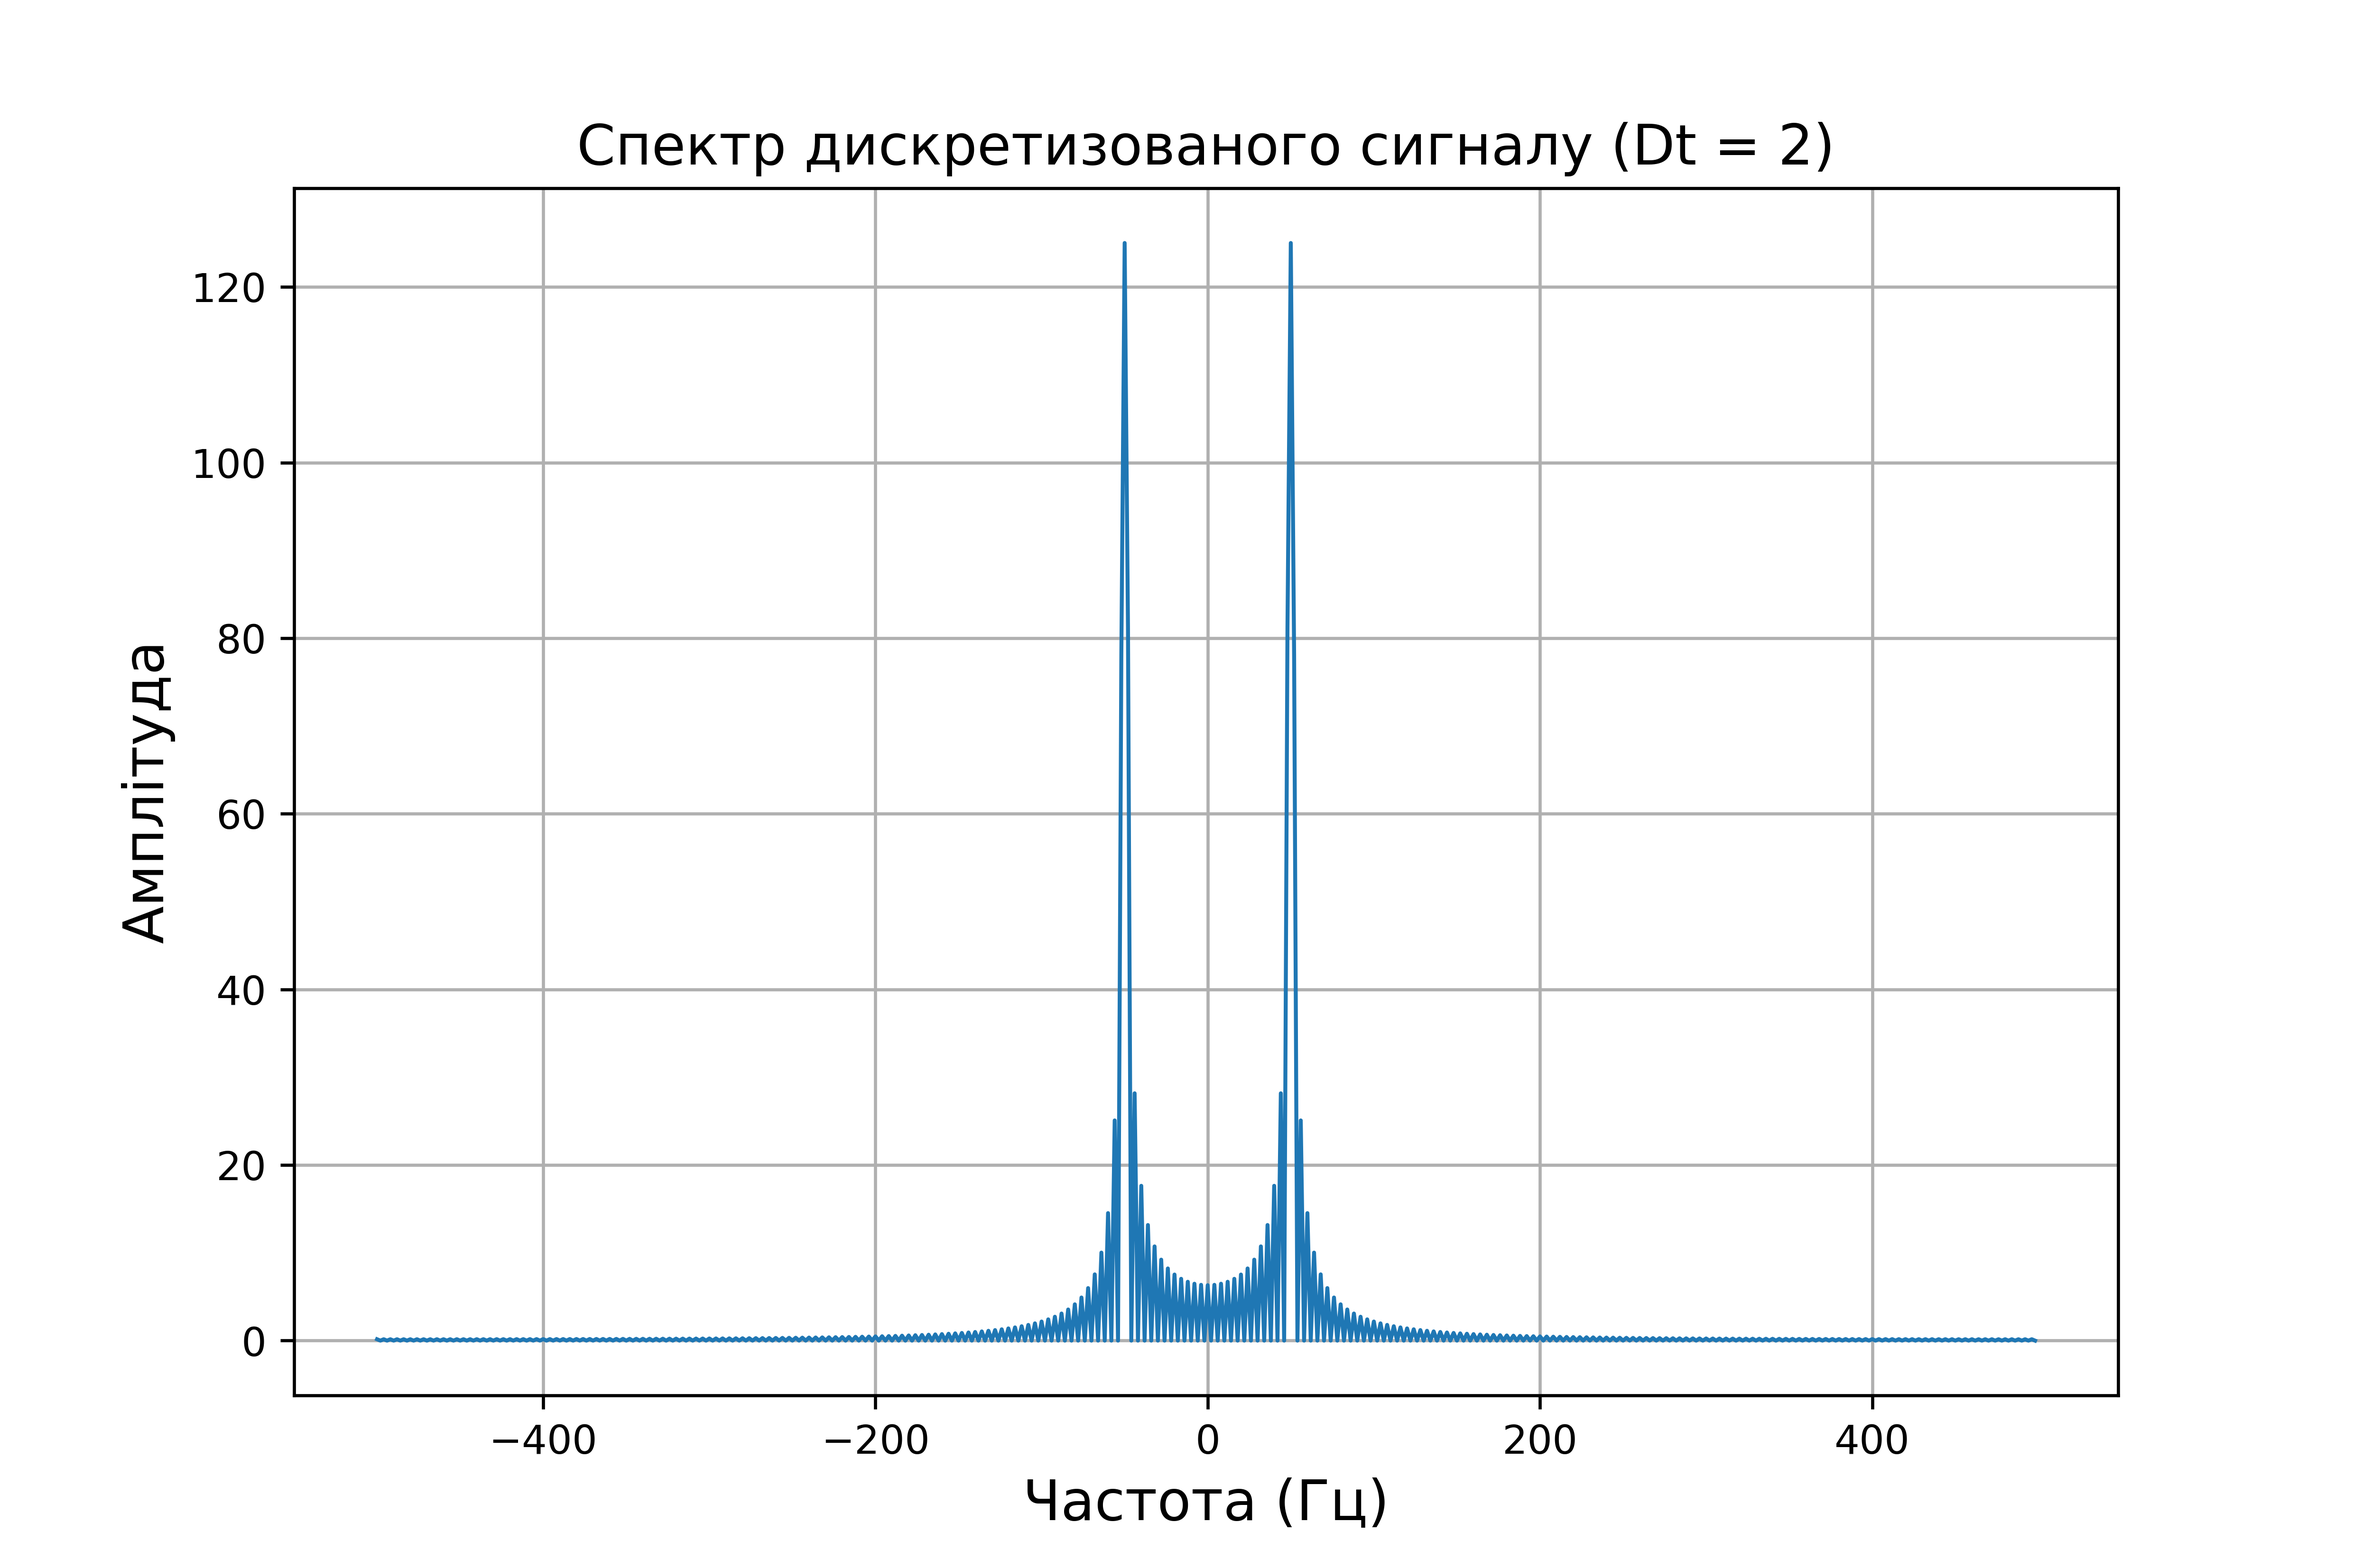
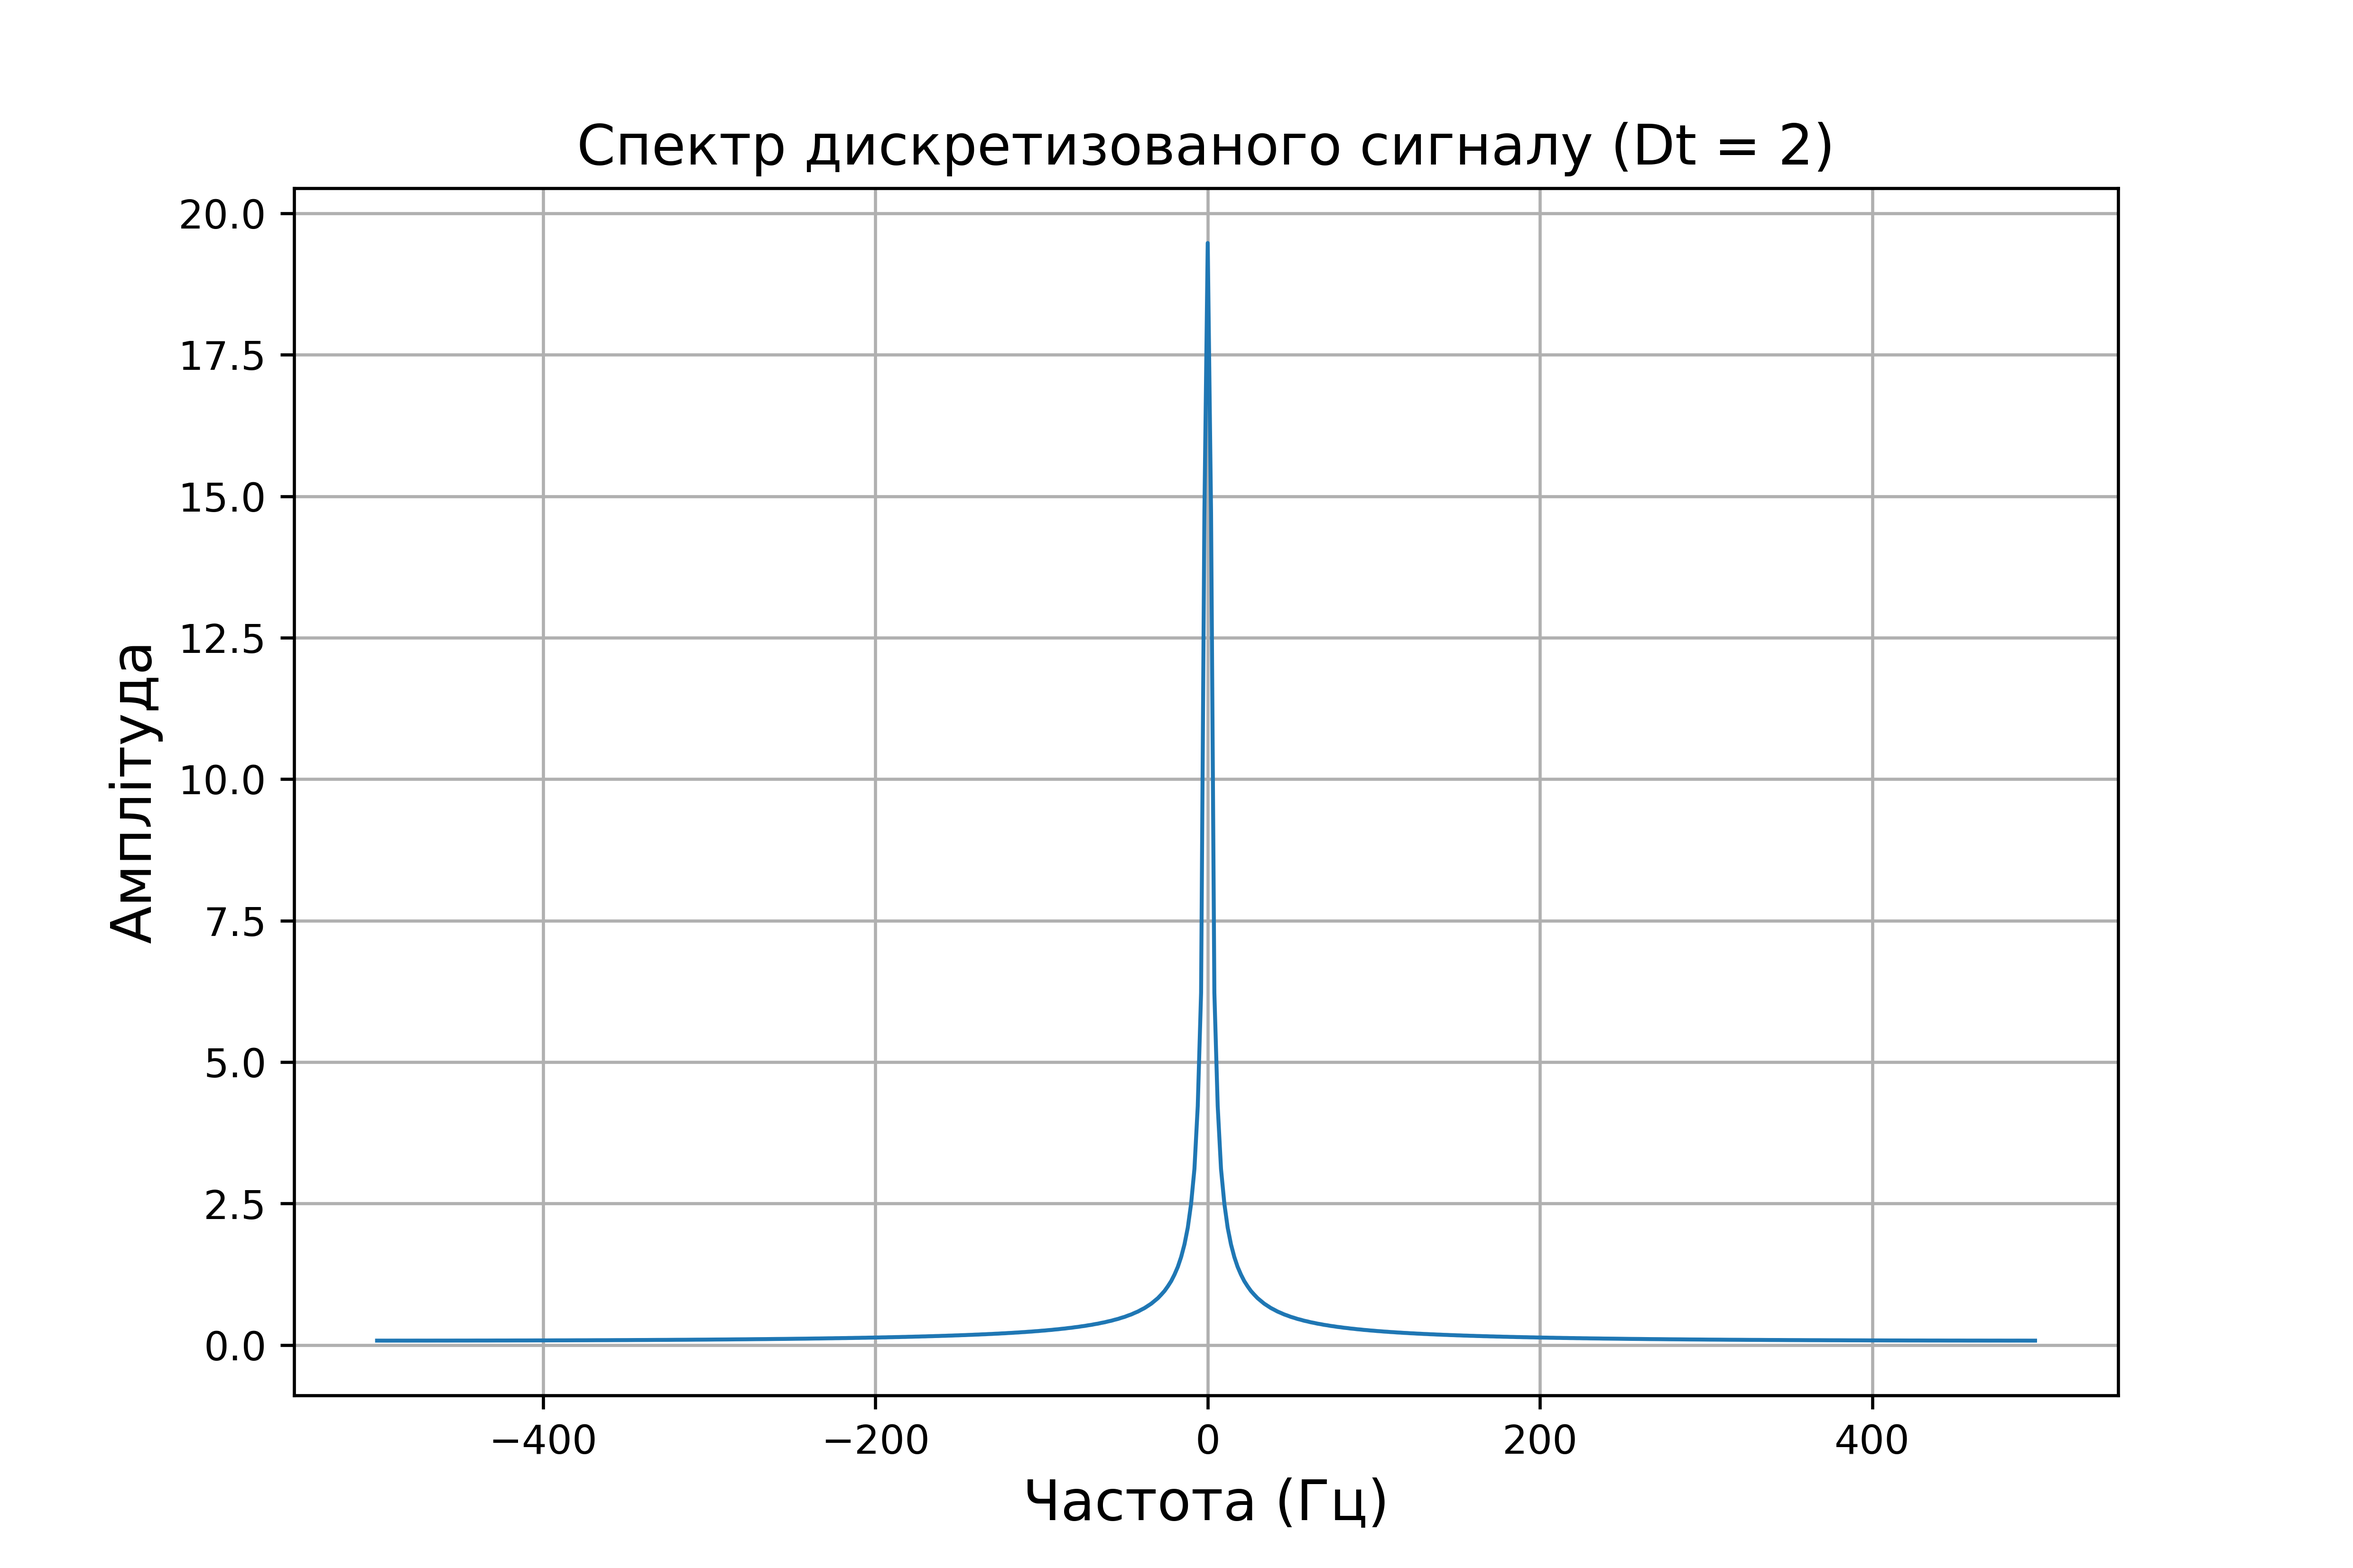
Signal processing, 2(Rework 2.0)

diff --git a/SignalProcessing/SignalProcessing.py b/SignalProcessing/SignalProcessing.py
@@ -3,24 +3,24 @@ import matplotlib.pyplot as plt
 from scipy.fft import fft, fftshift, fftfreq
 from scipy import signal
 
-# Заданные параметры сигнала
+# Задані параметри сигнала
 n = 500
 Fs = 1000
 F_max = 25
 F_filter = 32
 
-# Списки для сохранения результатов
+# Списки для збереження результатів
 discrete_signals = []
 discrete_spectrums = []
 restored_signals = []
 variances = []
 snr_ratios = []
 
-# Размеры фигуры и графика
+# Розміри фігури та графіка
 width_cm = 21
 height_cm = 14
 
-# График для отображения сигнала
+# Графік для відображення сигналу
 fig, ax = plt.subplots(figsize=(width_cm / 2.54, height_cm / 2.54))
 t = np.arange(n) / Fs
 x = np.sin(2 * np.pi * F_max * t)
@@ -29,10 +29,10 @@ ax.set_xlabel('Час (с)', fontsize=14)
 ax.set_ylabel('Амплітуда', fontsize=14)
 plt.title('Згенерований сигнал', fontsize=14)
 
-# Сохранение изображения сигнала
+# Збереження зображення сигналу
 fig.savefig('./figures/signal.png', dpi=600)
 
-# Расчет и отображение спектра сигнала
+# Розрахунок та відображення спектра сигналу
 fig, ax = plt.subplots(figsize=(width_cm / 2.54, height_cm / 2.54))
 spectrum = fftshift(fft(x))
 freqs = fftshift(fftfreq(n, 1 / Fs))
@@ -41,18 +41,18 @@ ax.set_xlabel('Частота (Гц)', fontsize=14)
 ax.set_ylabel('Амплітуда', fontsize=14)
 plt.title('Спектр сигналу', fontsize=14)
 
-# Сохранение изображения спектра
+# Збереження зображення спектра
 fig.savefig('./figures/spectrum.png', dpi=600)
 
-# Расчет параметров ФНЧ
+# Розрахунок параметрів ФНЧ
 w = F_max / (Fs / 2)
 order = 3
 sos = signal.butter(order, w, 'low', output='sos')
 
-# Фильтрация сигнала
+# Фільтрація сигналу
 filtered_signal = signal.sosfiltfilt(sos, x)
 
-# Отображение результатов фильтрации
+# Відображення результатів фільтрації
 fig, ax = plt.subplots(figsize=(width_cm / 2.54, height_cm / 2.54))
 ax.plot(t, filtered_signal, linewidth=1)
 ax.set_xlabel('Час (с)', fontsize=14)
@@ -61,37 +61,36 @@ plt.title('Фільтрований сигнал', fontsize=14)
 
 plt.show()
 
-# Цикл дискретизации с разными шагами
+# Цикл дискретизації з різними кроками
 for Dt in [2, 4, 8, 16]:
     t = np.arange(n) / Fs
     x = np.sin(2 * np.pi * F_max * t)
 
-    # Дискретизация сигнала
-    discrete_signal = np.pad(x[::Dt], (0, len(x) - len(x[::Dt])), mode='constant')
+    # Дискретизація сигналу
+    discrete_signal = x[::Dt]
     discrete_signals.append(list(discrete_signal))
 
-    # Расчет спектра дискретизированного сигнала
-    spectrum = fftshift(fft(discrete_signal))
-    freqs = fftshift(fftfreq(n, 1 / Fs))
-    discrete_spectrums.append(list(np.abs(spectrum)))
+    # Resampling the signal
+    resampled_signal = np.interp(np.arange(int(n / Dt)) * Dt / n, np.arange(n), x)
+    discrete_spectrums.append(np.abs(fftshift(fft(resampled_signal, n))))
 
-    # Восстановление сигнала с помощью фильтрации
+    # Відновлення сигналу за допомогою фільтрації
     w = F_filter / (Fs / 2)
     sos = signal.butter(3, w, 'low', output='sos')
-    restored_signal = signal.sosfiltfilt(sos, discrete_signal)
+    restored_signal = signal.sosfiltfilt(sos, resampled_signal)
     restored_signals.append(list(restored_signal))
 
-    # Расчет разницы между начальным и восстановленным сигналом
+    # Розрахунок різниці між початковим та відновленим сигналом
     E1 = restored_signal[:len(restored_signal)] - x[:len(restored_signal)]
 
-    # Расчет дисперсии и отношения сигнал-шум
+    # Розрахунок дисперсії та відношення сигнал-шум
     var_signal = np.var(x)
     var_diff = np.var(E1)
     variances.append(var_diff)
     snr_ratio = var_signal / var_diff
     snr_ratios.append(snr_ratio)
 
-# Построение графиков
+# Побудова графіків
 plt.figure(figsize=(10, 6))
 plt.plot([2, 4, 8, 16], variances, marker='o')
 plt.xlabel('Крок дискретизації (Dt)', fontsize=14)
@@ -110,7 +109,7 @@ plt.grid(True)
 plt.savefig('./figures/snr_vs_dt.png', dpi=600)
 plt.show()
 
-# Построение графиков спектров дискретизированных сигналов
+# Побудова графіків спектрів дискретизованих сигналів
 for i, spectrum in enumerate(discrete_spectrums):
     fig, ax = plt.subplots(figsize=(width_cm / 2.54, height_cm / 2.54))
     ax.plot(freqs, np.abs(spectrum), linewidth=1)
@@ -122,10 +121,10 @@ for i, spectrum in enumerate(discrete_spectrums):
     plt.show()
 
 
-# Построение графиков восстановленных сигналов
+# Побудова графіків відновлених сигналів
 for i, restored_signal in enumerate(restored_signals):
     fig, ax = plt.subplots(figsize=(width_cm / 2.54, height_cm / 2.54))
-    ax.plot(t, restored_signal, linewidth=1)
+    ax.plot(t[:len(restored_signal)], restored_signal, linewidth=1)
     ax.set_xlabel('Час (с)', fontsize=14)
     ax.set_ylabel('Амплітуда', fontsize=14)
     plt.title(f'Відновлений сигнал (Dt = {2**(i+1)})', fontsize=14)
@@ -133,10 +132,10 @@ for i, restored_signal in enumerate(restored_signals):
     plt.savefig(f'./figures/restored_signal_{2**(i+1)}.png', dpi=600)
     plt.show()
 
-# Построение графиков дискретизированных сигналов
+# Побудова графіків дискретизованих сигналів
 for i, discrete_signal in enumerate(discrete_signals):
     fig, ax = plt.subplots(figsize=(width_cm / 2.54, height_cm / 2.54))
-    ax.plot(t[:len(discrete_signal)], discrete_signal, linewidth=1)
+    ax.plot(np.arange(len(discrete_signal)) / Fs * (2 ** (i + 1)), discrete_signal, linewidth=1)
     ax.set_xlabel('Час (с)', fontsize=14)
     ax.set_ylabel('Амплітуда', fontsize=14)
     plt.title(f'Дискретизований сигнал (Dt = {2**(i+1)})', fontsize=14)
